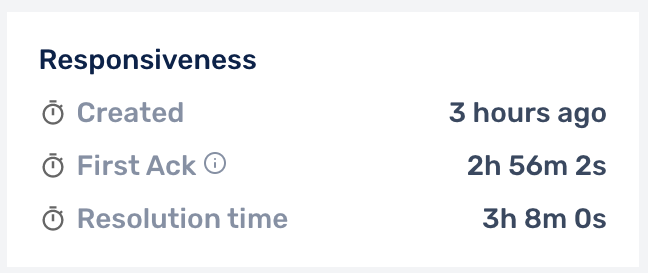
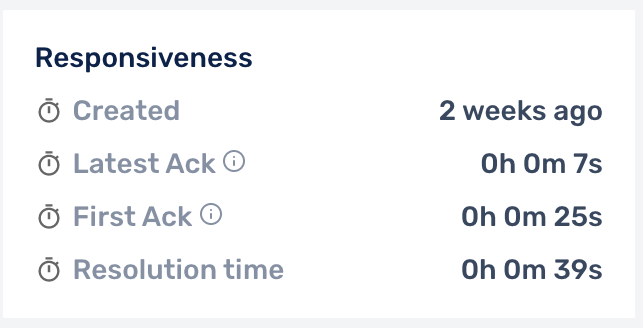
Time Since Ack

diff --git a/pages/mydoc/incident_details.md b/pages/mydoc/incident_details.md
@@ -52,7 +52,7 @@ th{
 | Resolve              | To mark an incident as Resolved |
 | Actions              | Actions are used to create JIRA tickets or take actions via [Circle CI](https://support.squadcast.com/docs/circleci-integration) |
 | Incident Details     | []() **Incident Details displays**: <br> <br> 1. When the incident was **created** in Squadcast <br> 2. **Alert Source** via which the incident was created <br> 3. **Affected Service** for which the incident was created <br> 4. **Elapsed time** since the incident got created in Squadcast <br> <br> Note: Hover over the **created field** to view the exact Date and Time of the creation of the incident. <br> <br>![](images/incident_6.png) |
-| Responsiveness             | []() Responsiveness shows three timelines: <br> 1. **Created** - Time elapsed since the creation of the incident <br> 2. **First Ack** - Time elapsed since first Acknowledgement of the incident <br> 3. **Resolution time** - Time elapsed since creation to resolution of the incident <br> ![](images/incidents_responsiveness.png) |
+| Responsiveness             | []() Responsiveness shows three timelines: <br> 1. **Created** - Time elapsed since the creation of the incident <br> 2. **Latest Ack** - Time elapsed since the latest Acknowledgement of the incident. Will change everytime the incident is reassigned <br> 3. **First Ack** - Time elapsed since the first Acknowledgement of the incident <br> **Resolution Time** - Time elapsed since creation to resolution of the incident <br> ![](images/incidents_responsiveness.png) |
 | Communication Channels | []() Communication Channels helps you add video call, chatops and external links to an incident. Additionally, you can create a dedicated Slack Channel for an incident using the Communications Card.  <br> ![](images/incident_commscard.png) <br> <br> To add a Communication Channel, Click on **+Add Link** -> Select the type of channel you want to add -> Add the link and Text to Display for your Communication Channel -> Click on **Save** <br><br> Once added, you can **Edit/Update** the Communication Channel. <br> ![](images/incident_addcard.png) <br><br> Any activity in the Communications Card, gets reflected on the Activity Timeline of the incident.  |
 | Responders           | Responders will display the list of all Users, Squads or Escalation Policies that were involved during the lifecycle of the incident. Select **Notification Logs** to open up logs of all the notifications generated for the incident |
 | Activity Timeline    | Activity Timeline will indicate the list of all activities performed on this incident in reverse chronological order <br> <br> **Note**: Activity Timeline will show incident reassignment, mentioning both the assigned and assignee. <br> <br> **Note**: Downloading Activity Timeline will be available for accounts in the [Pro and Enterprise plans](https://www.squadcast.com/pricing). |
